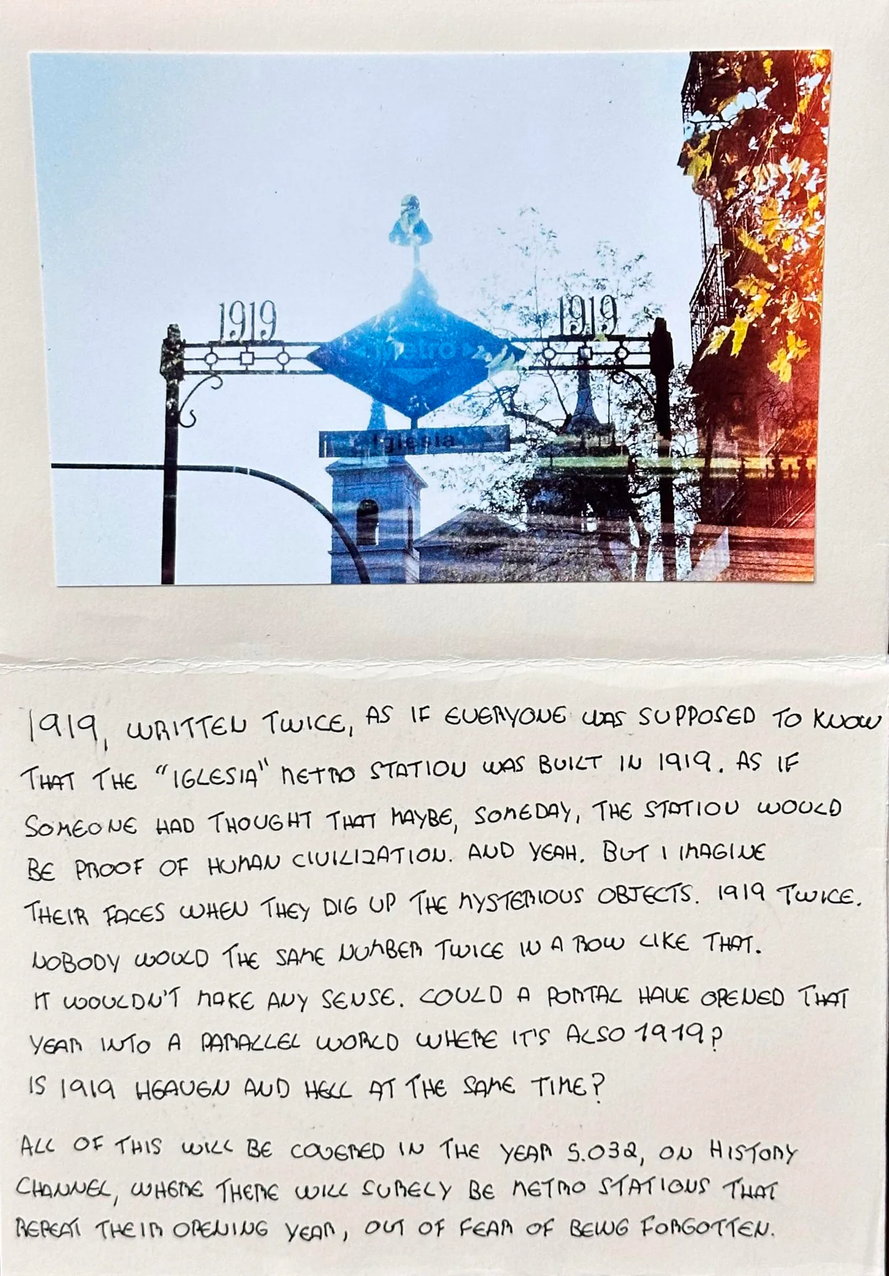
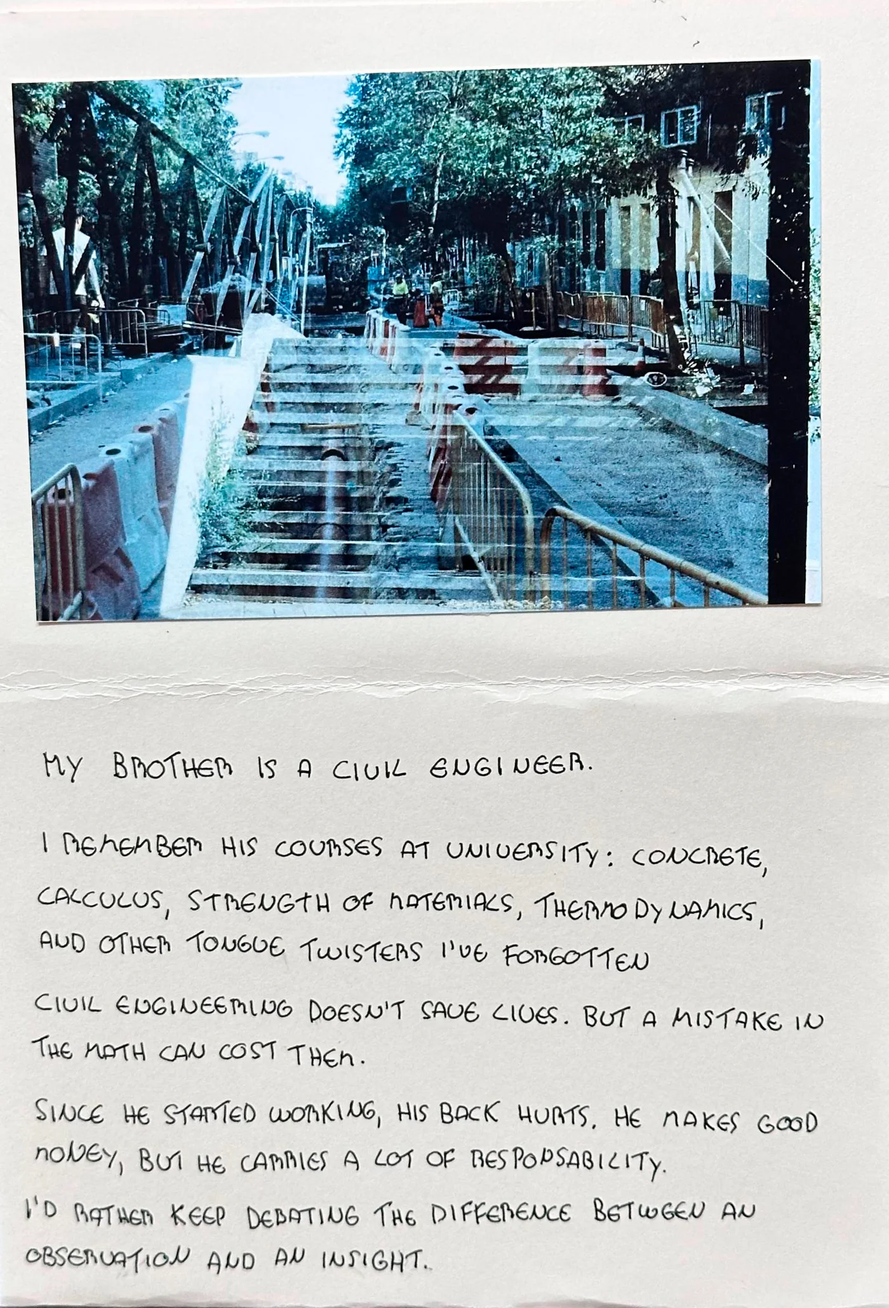
Tres hojas mas en el zine: doce en total

diff --git a/index.html b/index.html
@@ -962,7 +962,10 @@
     "assets/zine-6.webp",
     "assets/zine-7.webp",
     "assets/zine-8.webp",
-    "assets/zine-9.webp"
+    "assets/zine-9.webp",
+    "assets/zine-10.webp",
+    "assets/zine-11.webp",
+    "assets/zine-12.webp"
   ];
   const zineLayer = document.getElementById("zine");
   let zineAt = -1;
